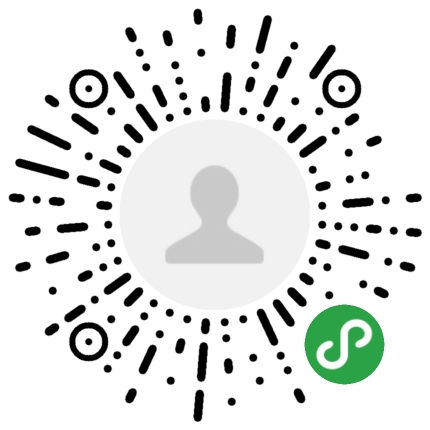
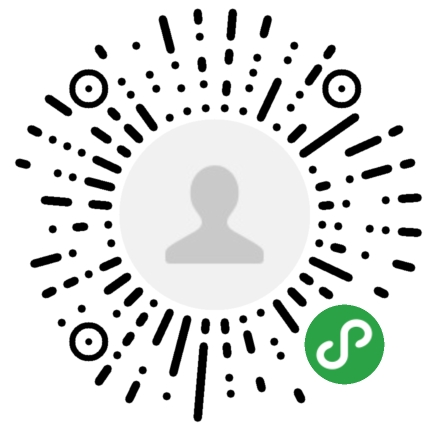
小程序码优化

diff --git a/app/Console/Commands/RefundPoints.php b/app/Console/Commands/RefundPoints.php
@@ -6,7 +6,6 @@ use App\Models\User;
 use App\Models\MyCash;
 use Illuminate\Console\Command;
 use EasyWeChat\Factory;
-use Illuminate\Support\Facades\Storage;
 
 class RefundPoints extends Command
 {
@@ -21,34 +20,17 @@ class RefundPoints extends Command
 
     public function handle()
     {
-        // $config = [
-        //     //...
-        // ];
-
-        $miniProgram = \EasyWeChat::miniProgram();
-        // 获取 access token 实例
-        $response = $miniProgram->app_code->getUnlimit('scene-value', [
-            'path' => '/path/to/directory',
-        ]);
-        if ($response instanceof \EasyWeChat\Kernel\Http\StreamResponse) {
-            $filename = $response->saveAs(app()->storagePath('/app/public'), 'appcode.png');
-            $url = Storage::url($filename);
-            dd(asset($url));
-            // return $this->jsonData(ResultCode::SUCCESS_CODE, '', asset($url));
-        }
-        // return $this->jsonMessage(ResultCode::ERROR_CODE, '错误');
-
-
         // 查询被拒绝的提现要求
         $myCashes = MyCash::where('if_check',2)->get();
         foreach ($myCashes as $myCash) {
             // 把积分退回给用户
-            User::where('id',$myCash->user_id)->update();
+            $user = User::where('id',$myCash->user_id)->first();
+            $user->my_points = $user->my_points + $myCash->points;
+            $user->save();
+            $myCash->if_check = 3;
+            $myCash->save();
         }
-
-        if (!$user) {
-            return $this->error('用户不存在');
-        }
+        return $this->info('成功');
 
     }
 }

diff --git a/app/Http/Controllers/Api/AuthorizationsController.php b/app/Http/Controllers/Api/AuthorizationsController.php
@@ -98,7 +98,7 @@ class AuthorizationsController extends Controller
     }
 
     // 小程序码
-    protected function weappToken(Request $request)
+    protected function weappCode(Request $request)
     {
         $miniProgram = \EasyWeChat::miniProgram();
         $response = $miniProgram->app_code->getUnlimit($request->uid, [
@@ -108,6 +108,7 @@ class AuthorizationsController extends Controller
             $filename = $response->saveAs(app()->storagePath('/app/public'), 'appcode.png');
             $url = Storage::url($filename);
             return $this->response->array([
+                'code' => 0,
                 'url' => asset($url)
             ])->setStatusCode(201);
         }

diff --git a/routes/api.php b/routes/api.php
@@ -33,9 +33,9 @@ $api->version('v1', [
         // 删除token
         $api->delete('authorizations/current', 'AuthorizationsController@destroy')
             ->name('api.authorizations.destroy');
-        // 获取小程序的token
-        $api->post('authorizations/weapp', 'AuthorizationsController@weappToken')
-            ->name('api.authorizations.weappToken');
+        // 获取小程序码
+        $api->post('authorizations/weapp', 'AuthorizationsController@weappCode')
+            ->name('api.authorizations.weappCode');
     });
 
     $api->group([

diff --git a/app/Admin/Controllers/MyCashesController.php b/app/Admin/Controllers/MyCashesController.php
@@ -74,6 +74,8 @@ class MyCashesController extends Controller
                 return $value = "<a class='btn btn-xs btn-success'>已提现</a>";
             } elseif ($value == 2) {
                 return $value = "<a class='btn btn-xs btn-danger'>已拒绝</a>";
+            } elseif ($value == 3) {
+                return $value = "<a class='btn btn-xs btn-danger'>已退还</a>";
             }
         });
         $grid->points('提现积分');
